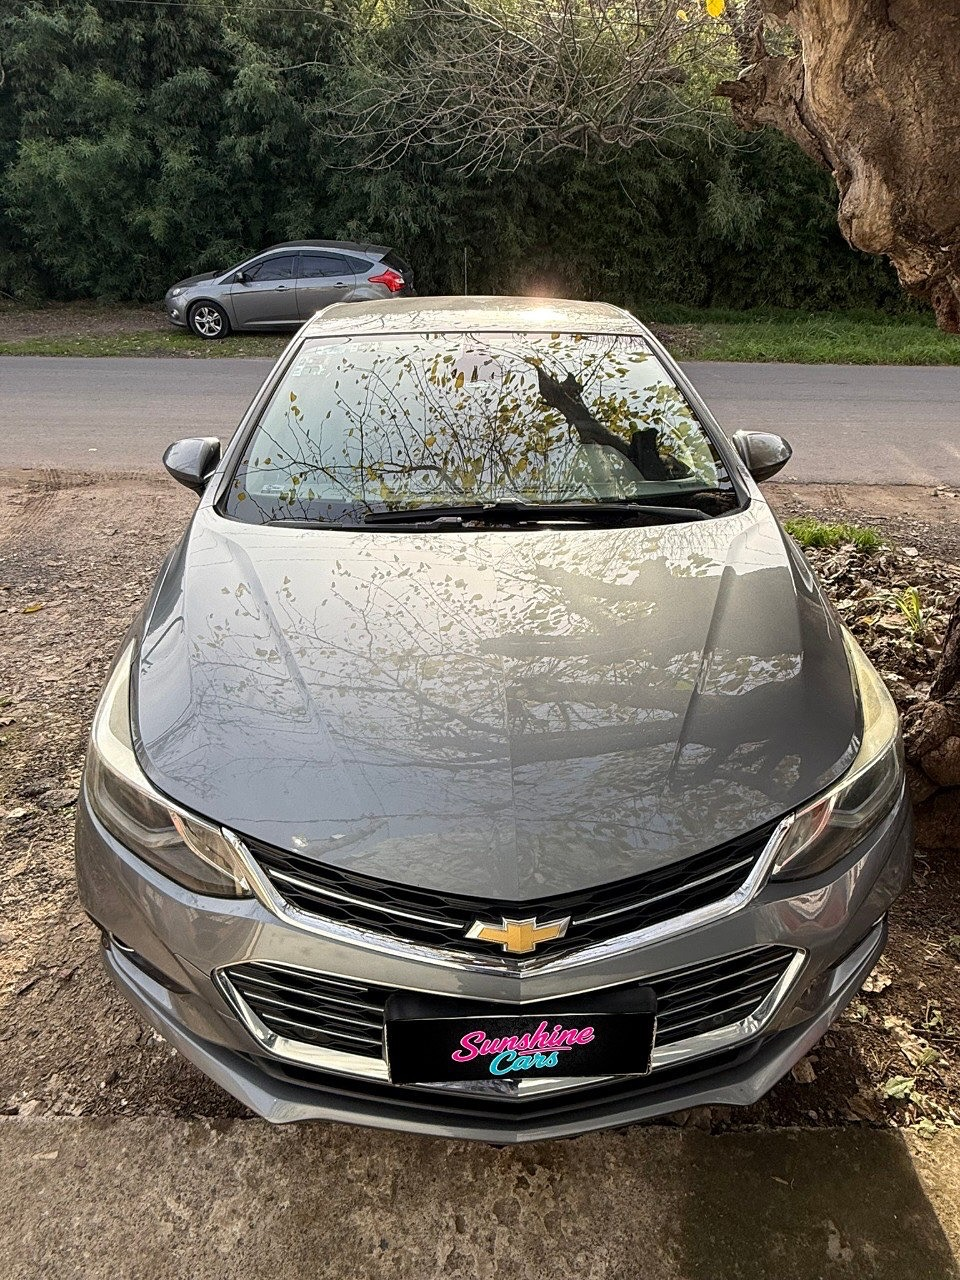
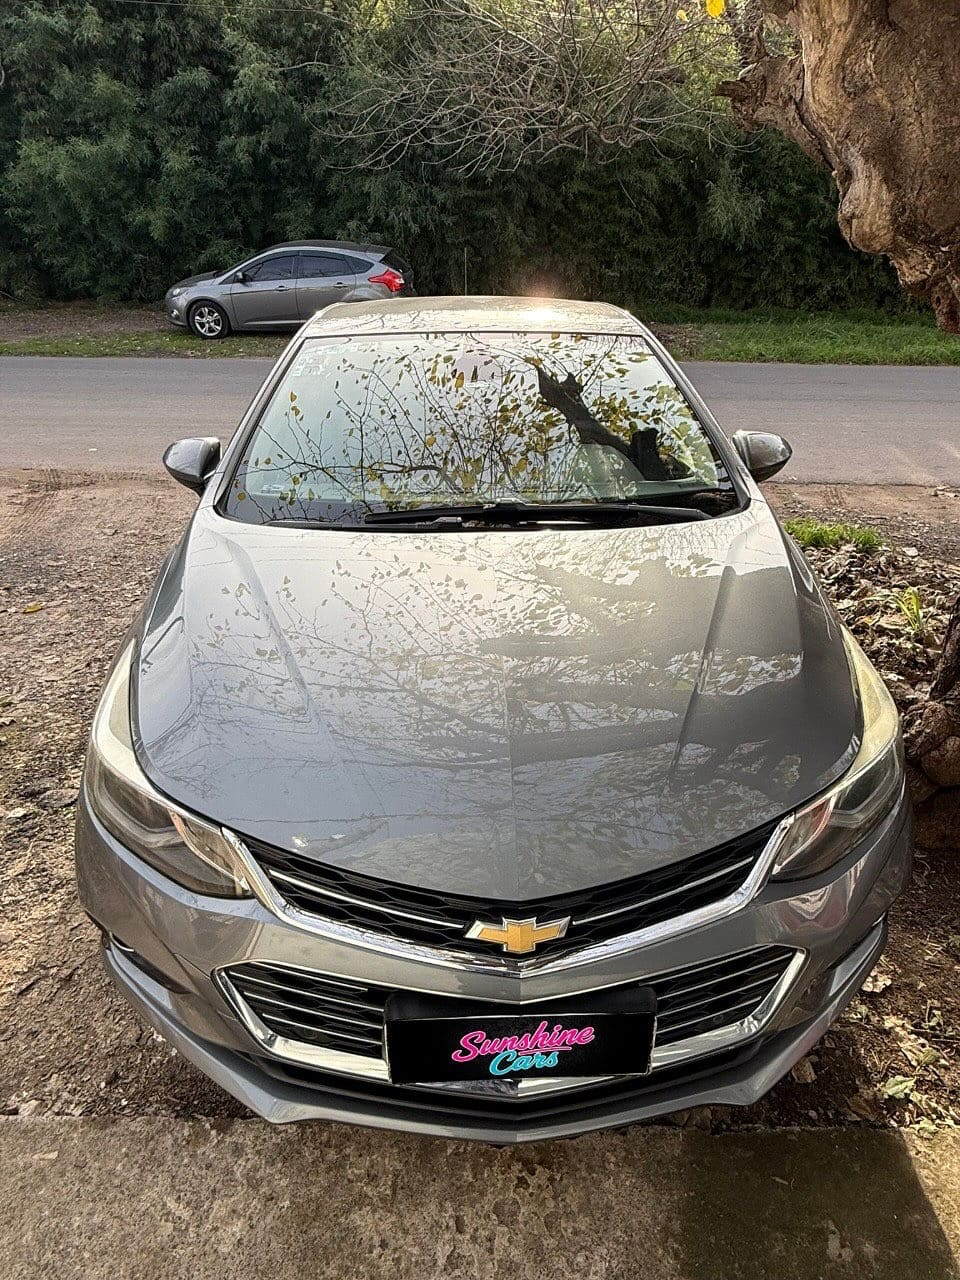
new compressed images and delete divs with points orange

diff --git a/src/components/ContactSection.tsx b/src/components/ContactSection.tsx
@@ -1,4 +1,3 @@
-"use client"
 
 import { useState, useEffect, useRef } from "react"
 import { Phone, MapPin } from "lucide-react"
